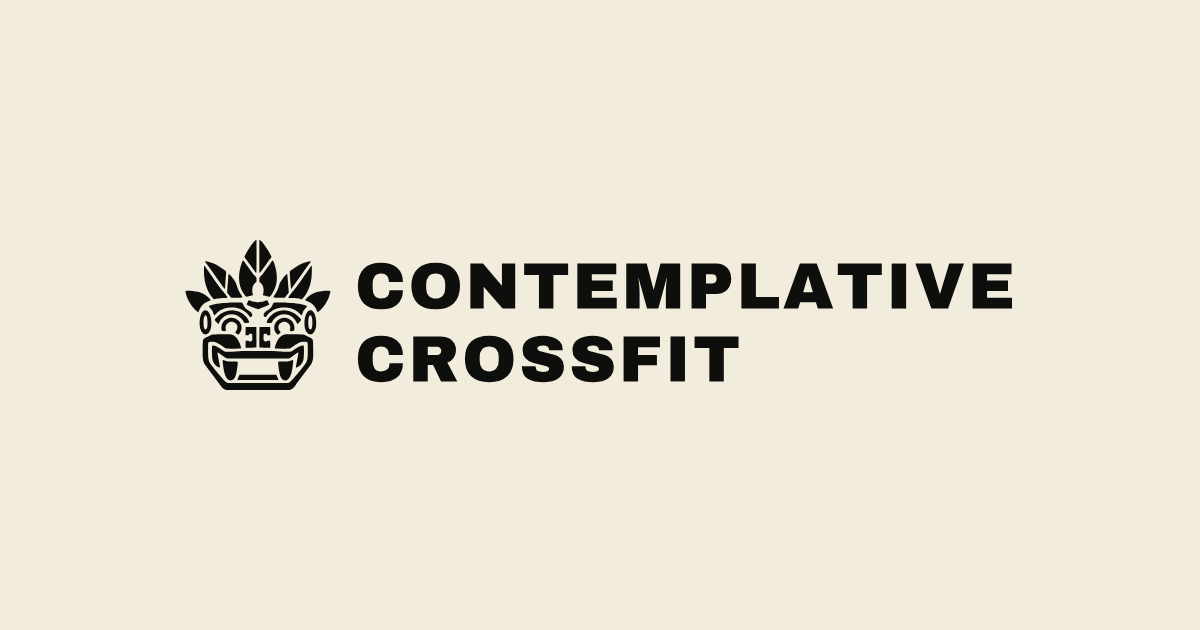
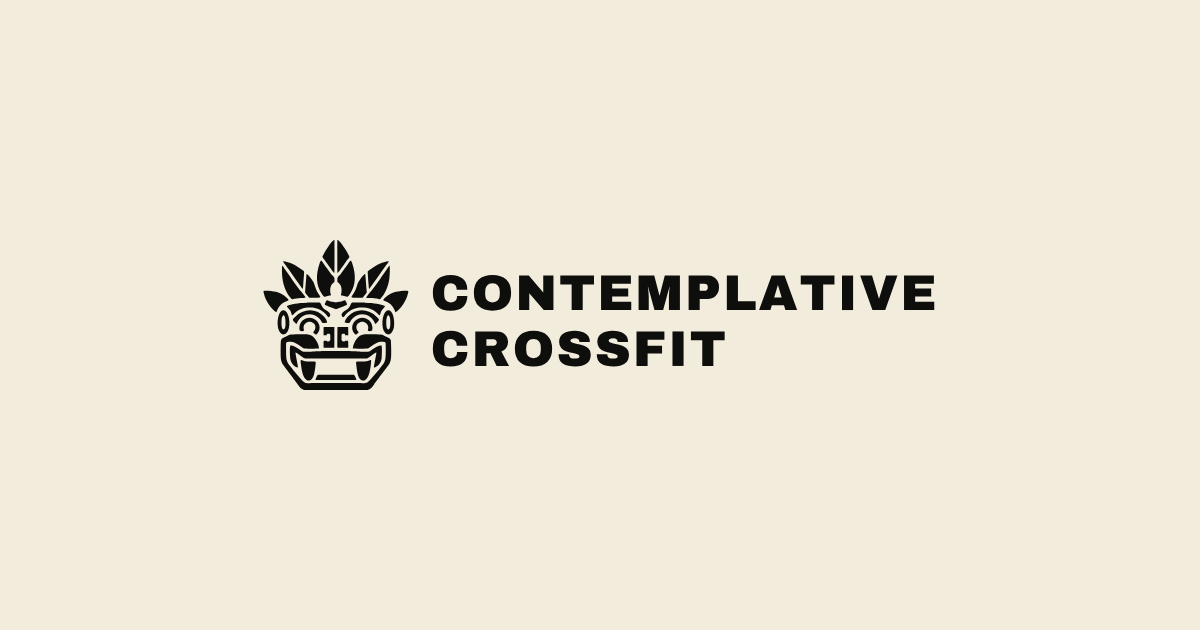
feat: lockup v1.1, smaller wordmark
Wordmark cap height 0.23 of the mask (was 0.30), gap 0.16 (was 0.18).
Ink and bone lockups and the social preview card re-exported.

Claude-Session: https://claude.ai/code/session_01NyGmqpkaYfU9nD4YBqp8jg

Changed region(s): [[0.1542, 0.3921, 0.8633, 0.6333]]

diff --git a/components/layout/Header.tsx b/components/layout/Header.tsx
@@ -17,7 +17,7 @@ export function Header() {
     <a className="skip" href="#main">Skip to content</a>
     <header className="header wrap">
       <Link href="/" className="brand" aria-label="Contemplative Crossfit home" onClick={close}>
-        <img className="brand-lockup" src="/brand/cc-lockup-stacked-ink.svg" width="553" height="100" alt="" />
+        <img className="brand-lockup" src="/brand/cc-lockup-stacked-ink.svg" width="449" height="100" alt="" />
       </Link>
       <button className="menu-toggle" aria-expanded={open} aria-controls="navigation" onClick={() => setOpen(!open)}>Menu <span aria-hidden="true">+</span></button>
       <nav id="navigation" className={open ? 'is-open' : ''} aria-label="Main navigation">

diff --git a/docs/edit-ledger.md b/docs/edit-ledger.md
@@ -136,3 +136,7 @@ commits. Hashes below were backfilled for commits made before the ledger existed
 - Home is back to the version before `cb88ce9`: "Realization fitness." with the Mongaku print, the paper/ink material layer and no "Join the Bootcamp" header button. The brand-kit favicon, lockup and "Crossfit" spelling stay.
 - The "04 Lanes" homepage is preserved unchanged on branch `home-04-lanes` (commit `cb88ce9`), including its `docs/design/` notes and references. Its ledger entry above is kept as written.
 - Why: Dat, Nov 4: revert it and keep it on a separate branch.
+
+### 2026-11-04 · Lockup v1.1: smaller wordmark
+- The header lockup's wordmark is 23% smaller against the mask (cap height 0.23 of the mask, was 0.30; mask-to-type gap 0.16, was 0.18), so the mask leads. The mask stays 56 px tall on desktop and 40 px on mobile, so the lockup is now about 251 × 56 px (was 310 × 56). Same change in the bone lockup and the social preview card.
+- Why: Dat, Nov 4: the text was "too big"; picked option B of three.
